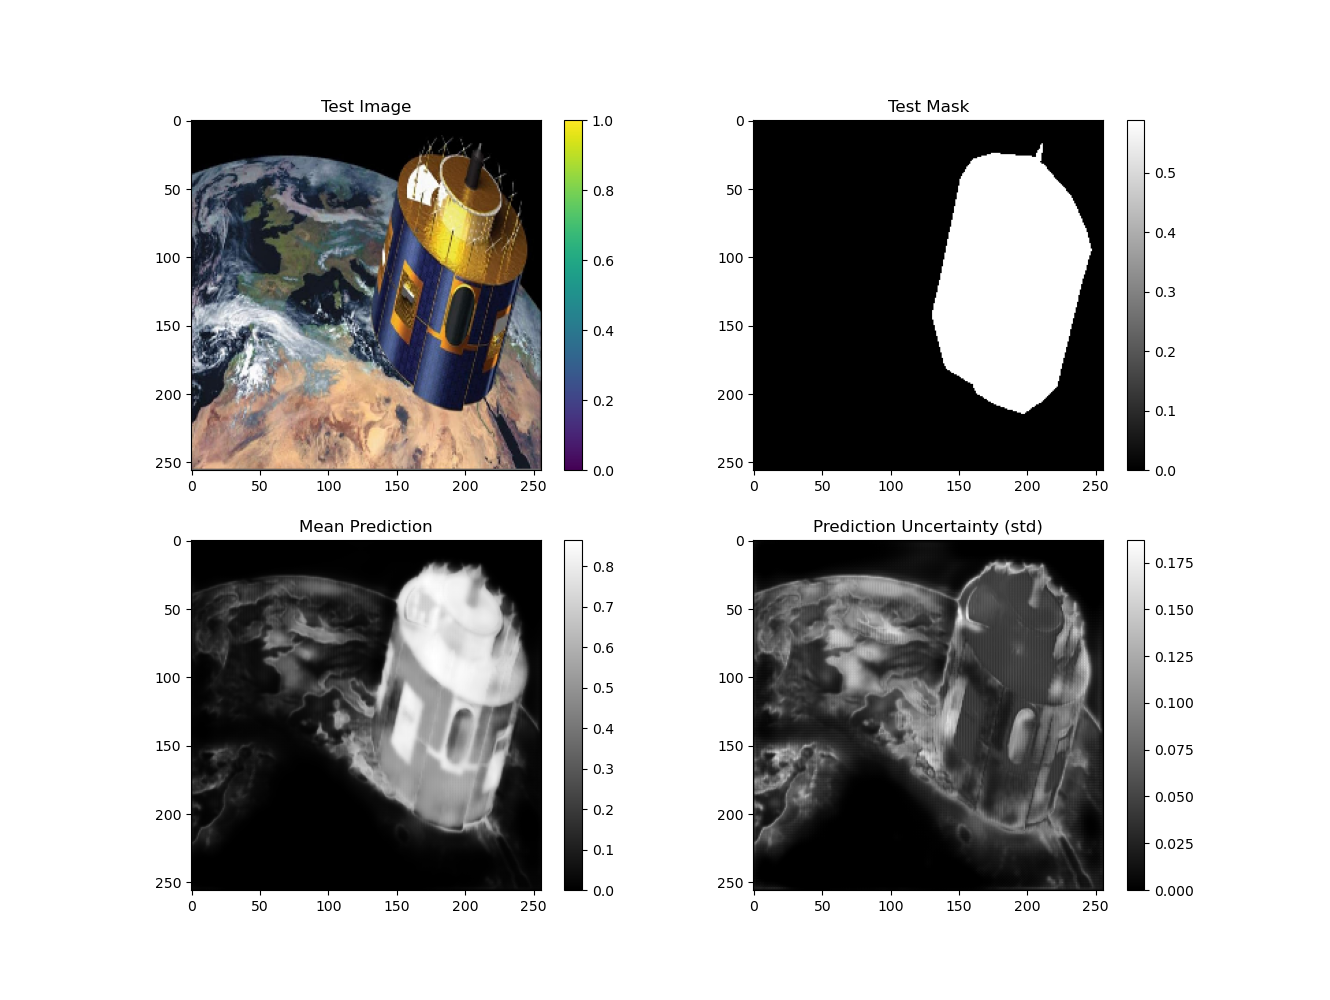
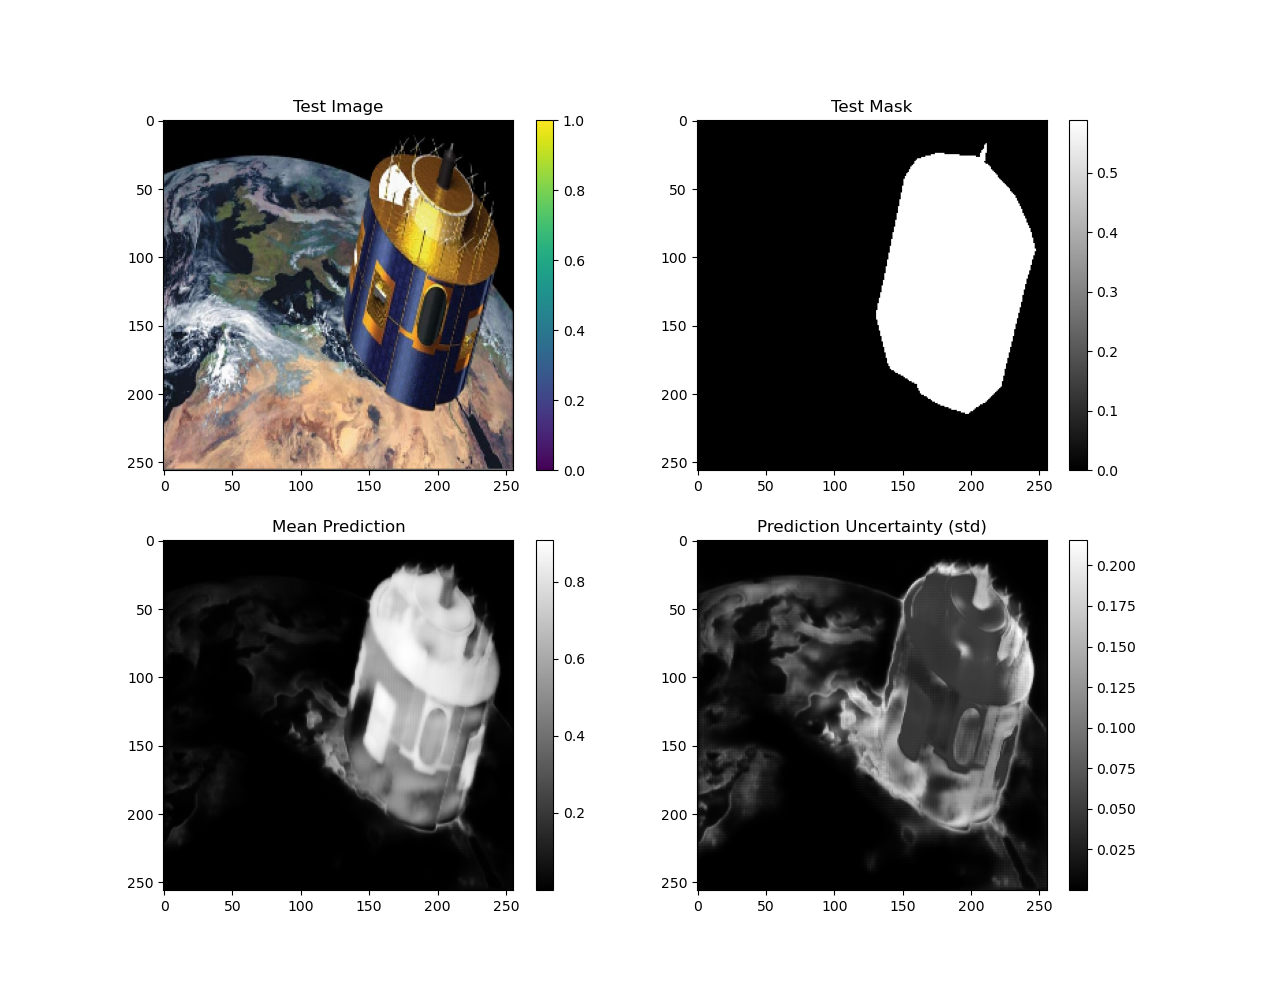
added graphing for MC dropout in respective file

diff --git a/main.py b/main.py
@@ -1,26 +1,28 @@
 import numpy as np
 import tensorflow as tf
 import matplotlib.pyplot as plt
-from configs import PREPPED_TEST_IMAGES, PREPPED_TEST_MASKS, UQ_TEST_EXAMPLE_INDEX
+from configs import PREPPED_TEST_IMAGES, PREPPED_TEST_MASKS, UQ_TEST_EXAMPLE_INDEX, DROPOUT_RATE
 from utils.directories_check import check_dirs, check_prepped_data
 from utils.custom_funcs import dice_loss, dice_coefficient, combined_loss
 from utils.logger_prep import get_logger
 
-from uncertainity_quantification.MC_dropout import mc_dropout_predictions
+from uncertainity_quantification.MC_dropout import mc_dropout_predictions, visualize_mean_std
 
 
 if __name__ == '__main__':
-    check_dirs()
-    check_prepped_data()
+
     logger = get_logger(__name__)
 
     # Load the model and test data
     try: 
-        model = tf.keras.models.load_model('checkpoints/unet_model.h5', custom_objects={'dice_loss': dice_loss, 'dice_coefficient': dice_coefficient, 'combined_loss': combined_loss})
+        model = tf.keras.models.load_model(f'checkpoints/unet_model_{DROPOUT_RATE}.h5', custom_objects={'dice_loss': dice_loss, 'dice_coefficient': dice_coefficient, 'combined_loss': combined_loss})
         logger.info('Model loaded successfully')
     except Exception as e:
         logger.error(f'Model not found, please train the model first: {e}')
         exit()
+
+    check_dirs()
+    check_prepped_data()
 
     test_images = tf.convert_to_tensor(np.load(PREPPED_TEST_IMAGES))
     test_masks = tf.convert_to_tensor(np.load(PREPPED_TEST_MASKS))
@@ -33,34 +35,7 @@ if __name__ == '__main__':
     mean_prediction = np.mean(mc_predictions, axis=0)
     std_deviation = np.std(mc_predictions, axis=0)
 
-    # Visualize the uncertainty as a normal distribution
-    plt.figure(figsize=(10, 10))
-    
-    # Display the actual test image
-    plt.subplot(2, 2, 1)
-    plt.imshow(test_image[0, :, :, :])
-    plt.colorbar()
-    plt.title('Test Image')
-    
-    # Display the actual mask
-    plt.subplot(2, 2, 2)
-    plt.imshow(test_mask[0, :, :, 0], cmap='gray')
-    plt.colorbar()
-    plt.title('Test Mask')
-    
-    # Display the mean prediction
-    plt.subplot(2, 2, 3)
-    plt.imshow(mean_prediction[0, :, :, 0], cmap='gray')
-    plt.colorbar()
-    plt.title('Mean Prediction')
-    
-    # Display the prediction uncertainty
-    plt.subplot(2, 2, 4)
-    plt.imshow(std_deviation[0, :, :, 0], cmap='gray')
-    plt.colorbar()
-    plt.title('Prediction Uncertainty (std)')
-    
-    plt.show()
-
+    visualize_mean_std(test_image, test_mask, mean_prediction, std_deviation)
+   
 
     logger.info('Uncertainty quantification experiment complete')

diff --git a/train.py b/train.py
@@ -9,7 +9,7 @@ from utils.visualize import visualize_train_sample
 from utils.logger_prep import get_logger
 from utils.custom_funcs import dice_coefficient, combined_loss
 from utils.directories_check import check_dirs, check_prepped_data
-from configs import PREPPED_TRAIN_IMAGES, PREPPED_TRAIN_MASKS, PREPPED_TEST_IMAGES, PREPPED_TEST_MASKS
+from configs import PREPPED_TRAIN_IMAGES, PREPPED_TRAIN_MASKS, PREPPED_TEST_IMAGES, PREPPED_TEST_MASKS, DROPOUT_RATE
 
 
 
@@ -34,17 +34,18 @@ if __name__ == '__main__':
     test_images = tf.convert_to_tensor(np.load(PREPPED_TEST_IMAGES))
     test_masks = tf.convert_to_tensor(np.load(PREPPED_TEST_MASKS))
 
-    visualize_train_sample(train_images[4], train_masks[4])
+    # visualize_train_sample(train_images[4], train_masks[4])
 
-    if Path('checkpoints/unet_model.h5').exists():
-        logger.info('Model already exists, use predict.py to make predictions')
+    if Path(f'checkpoints/unet_model_{DROPOUT_RATE}.h5').exists():
+        logger.info('Model already exists, exiting...')
+        exit()
     else:
         logger.info('Model not found, creating and training...')
-        model = build_unet_model(dropout_rate=0.5)
+        model = build_unet_model(dropout_rate=DROPOUT_RATE)
         model.compile(optimizer='adam', loss=combined_loss, metrics=['accuracy', dice_coefficient])
 
         # Callbacks
-        checkpoint = ModelCheckpoint('checkpoints/unet_model.h5', monitor='val_loss', save_best_only=True, mode='min')
+        checkpoint = ModelCheckpoint(f'checkpoints/unet_model_{DROPOUT_RATE}.h5', monitor='val_loss', save_best_only=True, mode='min')
         tensorboard = TensorBoard(log_dir='logs')
         csv_logger = CSVLogger('logs/training.log')
 

diff --git a/uncertainity_quantification/MC_dropout.py b/uncertainity_quantification/MC_dropout.py
@@ -1,5 +1,6 @@
 import numpy as np
 from tqdm import tqdm
+import matplotlib.pyplot as plt
 
 def mc_dropout_predictions(model, input_image, num_samples=50):
     """
@@ -18,3 +19,32 @@ def mc_dropout_predictions(model, input_image, num_samples=50):
     return predictions
 
 
+def visualize_mean_std(test_image, test_mask, mean_prediction, std_deviation):
+    """ Visualize the test image, mask and model predictions. """
+    plt.figure(figsize=(10, 10))
+    
+    # Display the actual test image
+    plt.subplot(2, 2, 1)
+    plt.imshow(test_image[0, :, :, :])
+    plt.colorbar()
+    plt.title('Test Image')
+    
+    # Display the actual mask
+    plt.subplot(2, 2, 2)
+    plt.imshow(test_mask[0, :, :, 0], cmap='gray')
+    plt.colorbar()
+    plt.title('Test Mask')
+    
+    # Display the mean prediction
+    plt.subplot(2, 2, 3)
+    plt.imshow(mean_prediction[0, :, :, 0], cmap='gray')
+    plt.colorbar()
+    plt.title('Mean Prediction')
+    
+    # Display the prediction uncertainty
+    plt.subplot(2, 2, 4)
+    plt.imshow(std_deviation[0, :, :, 0], cmap='gray')
+    plt.colorbar()
+    plt.title('Prediction Uncertainty (std)')
+    
+    plt.show()

diff --git a/predict.py b/predict.py
@@ -6,7 +6,7 @@ from utils.directories_check import check_dirs, check_prepped_data
 from utils.custom_funcs import dice_loss, dice_coefficient, combined_loss
 from utils.visualize import visualize_test_sample
 from utils.logger_prep import get_logger
-from configs import PREPPED_TEST_IMAGES, PREPPED_TEST_MASKS 
+from configs import PREPPED_TEST_IMAGES, PREPPED_TEST_MASKS, DROPOUT_RATE
 
 if __name__ == '__main__':
 
@@ -16,7 +16,7 @@ if __name__ == '__main__':
 
     # Load the model
     try: 
-        model = tf.keras.models.load_model('checkpoints/unet_model.h5', custom_objects={'dice_loss': dice_loss, 'dice_coefficient': dice_coefficient, 'combined_loss': combined_loss})
+        model = tf.keras.models.load_model(f'checkpoints/unet_model_{DROPOUT_RATE}.h5', custom_objects={'dice_loss': dice_loss, 'dice_coefficient': dice_coefficient, 'combined_loss': combined_loss})
         logger.info('Model loaded successfully')
     except Exception as e:
         logger.error(f'Model not found, please train the model first: {e}')

diff --git a/configs.py b/configs.py
@@ -10,5 +10,8 @@ PREPPED_TRAIN_MASKS = 'prepped_data/trainmasks.npy'
 PREPPED_TEST_IMAGES = 'prepped_data/testimages.npy'
 PREPPED_TEST_MASKS = 'prepped_data/testmasks.npy'
 
+# Model hyperparameters
+DROPOUT_RATE = 0.35
+
 # Uncertainty quantification test example index
 UQ_TEST_EXAMPLE_INDEX = 0
